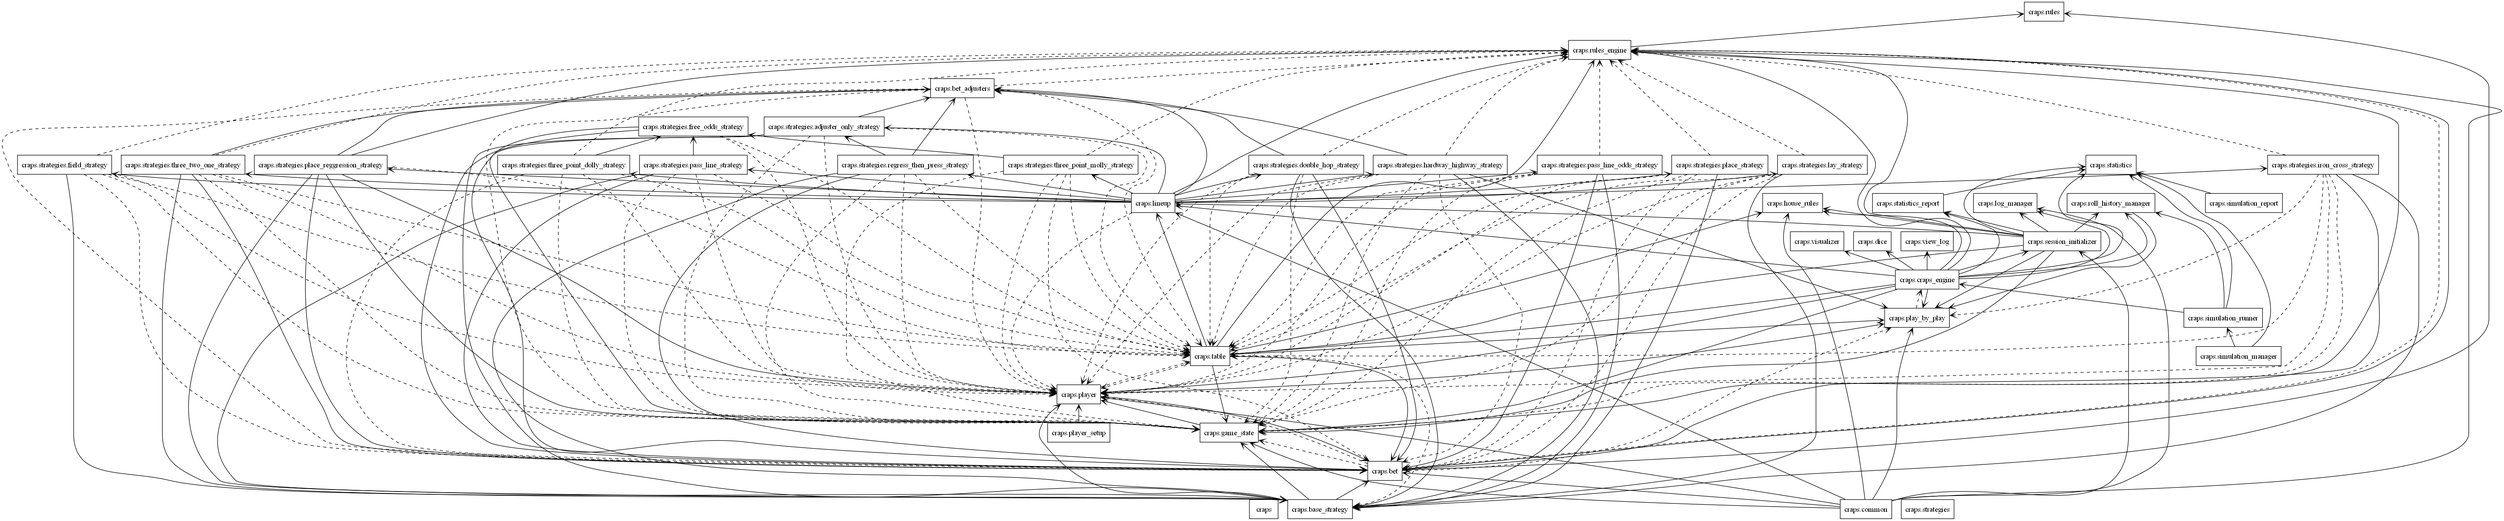
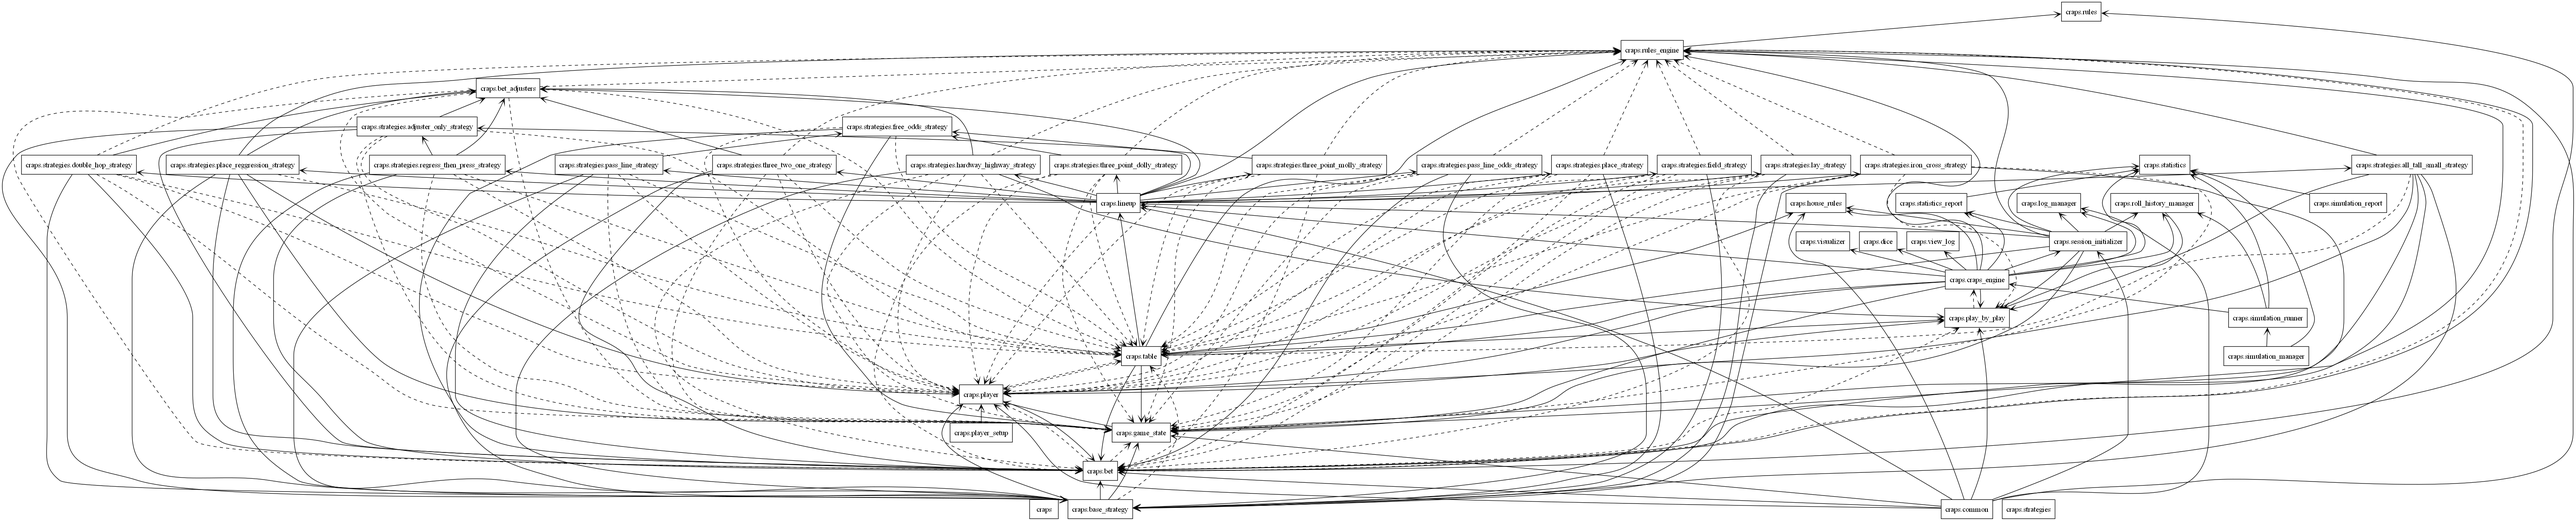
ATS Strategy & Lineup Tests Clean

diff --git a/craps/strategies/all_tall_small_strategy.py b/craps/strategies/all_tall_small_strategy.py
@@ -1,0 +1,59 @@
+from typing import Optional, List, TYPE_CHECKING
+from craps.base_strategy import BaseStrategy
+from craps.rules_engine import RulesEngine
+from craps.play_by_play import PlayByPlay
+from craps.player import Player
+from craps.bet import Bet
+from craps.game_state import GameState
+
+if TYPE_CHECKING:
+    from craps.table import Table
+
+ATS_TYPE_MAP = {
+    "AllTallSmall": ["All", "Tall", "Small"],
+    "TallSmall": ["Tall", "Small"],
+    "All": ["All"],
+    "Tall": ["Tall"],
+    "Small": ["Small"],
+}
+
+class AllTallSmallStrategy(BaseStrategy):
+    def __init__(
+        self,
+        table: "Table",
+        rules_engine: RulesEngine,
+        play_by_play: Optional[PlayByPlay] = None,
+        ats_type: str = "AllTallSmall",
+        bet_amount: Optional[int] = None
+    ):
+        super().__init__("AllTallSmall")
+        
+        self.table = table
+        self.rules_engine = rules_engine
+        self.play_by_play = play_by_play
+        self.ats_type = ats_type
+        self.ats_components = ATS_TYPE_MAP[ats_type]
+        self.bet_amount = bet_amount
+
+    def place_bets(
+        self, game_state: GameState, player: Player, table: "Table"
+    ) -> List[Bet]:
+        placed_bets: List[Bet] = []
+
+        if game_state.phase != "come-out":
+            return []
+
+        bet_amount = self.bet_amount or self.rules_engine.get_minimum_bet("All", table)
+        
+        for ats_type in self.ats_components:
+            if not player.has_active_bet(table, ats_type):
+                bet = self.rules_engine.create_bet(ats_type, bet_amount, player)
+                table.place_bet(bet, game_state.phase)
+                placed_bets.append(bet)
+
+                if self.play_by_play:
+                    self.play_by_play.write(
+                        f"  🎯 Placing ATS bet: ${bet_amount} on {ats_type}"
+                    )
+
+        return placed_bets

diff --git a/craps/lineup.py b/craps/lineup.py
@@ -12,6 +12,7 @@ from craps.strategies.place_reggression_strategy import PlaceRegressionStrategy
 from craps.strategies.regress_then_press_strategy import RegressThenPressStrategy
 from craps.strategies.lay_strategy import LayBetStrategy
 from craps.strategies.hardway_highway_strategy import HardwayHighwayStrategy
+from craps.strategies.all_tall_small_strategy import AllTallSmallStrategy
 from craps.strategies.adjuster_only_strategy import AdjusterOnlyStrategy
 from craps.bet_adjusters import PressAdjuster, PressStyle
 from craps.rules_engine import RulesEngine
@@ -54,7 +55,8 @@ class PlayerLineup:
             "Three-Two-One": ThreeTwoOneStrategy(rules_engine=self.rules_engine, min_bet=self.house_rules.table_minimum, odds_type="1x"),
             "RegressHalfPress": RegressThenPressStrategy(regression_strategy=PlaceRegressionStrategy(high_unit=10,low_unit=3, regression_factor=2, regress_units=5),press_style = PressStyle.HALF),
             "Lay Outside": LayBetStrategy(table=self.table, rules_engine=self.rules_engine, numbers_or_strategy="Outside"),
-            "HardwayHighway": HardwayHighwayStrategy(table=self.table, rules_engine=self.rules_engine, play_by_play=self.play_by_play)
+            "HardwayHighway": HardwayHighwayStrategy(table=self.table, rules_engine=self.rules_engine, play_by_play=self.play_by_play),
+            "AllTallSmall": AllTallSmallStrategy(table=self.table, rules_engine=self.rules_engine, play_by_play=self.play_by_play, ats_type="AllTallSmall"),
         }
 
     def add_player(self, player: "Player") -> None:

diff --git a/config.py b/config.py
@@ -1,8 +1,8 @@
 ACTIVE_PLAYERS = {
-    "Molly": ("3-Point Molly", True),
+    "Molly": ("3-Point Molly", False),
     "Dolly": ("3-Point Dolly", False),
     "Linus": ("Pass-Line", False),
-    "Odd Linus": ("Pass-Line w/ Odds", True),
+    "Odd Linus": ("Pass-Line w/ Odds", False),
     "Fielder": ("Field", False),
     "Crosstopher": ("Iron Cross", False),
     "Insider": ("Inside", False),
@@ -13,6 +13,7 @@ ACTIVE_PLAYERS = {
     "321-Blast": ("Three-Two-One", False),
     "Go Big": ("RegressHalfPress", False),
     "Hardy": ("HardwayHighway",False),
+    "ATS": ("AllTallSmall", True),
 }
 
 NUM_SHOOTERS = 10
